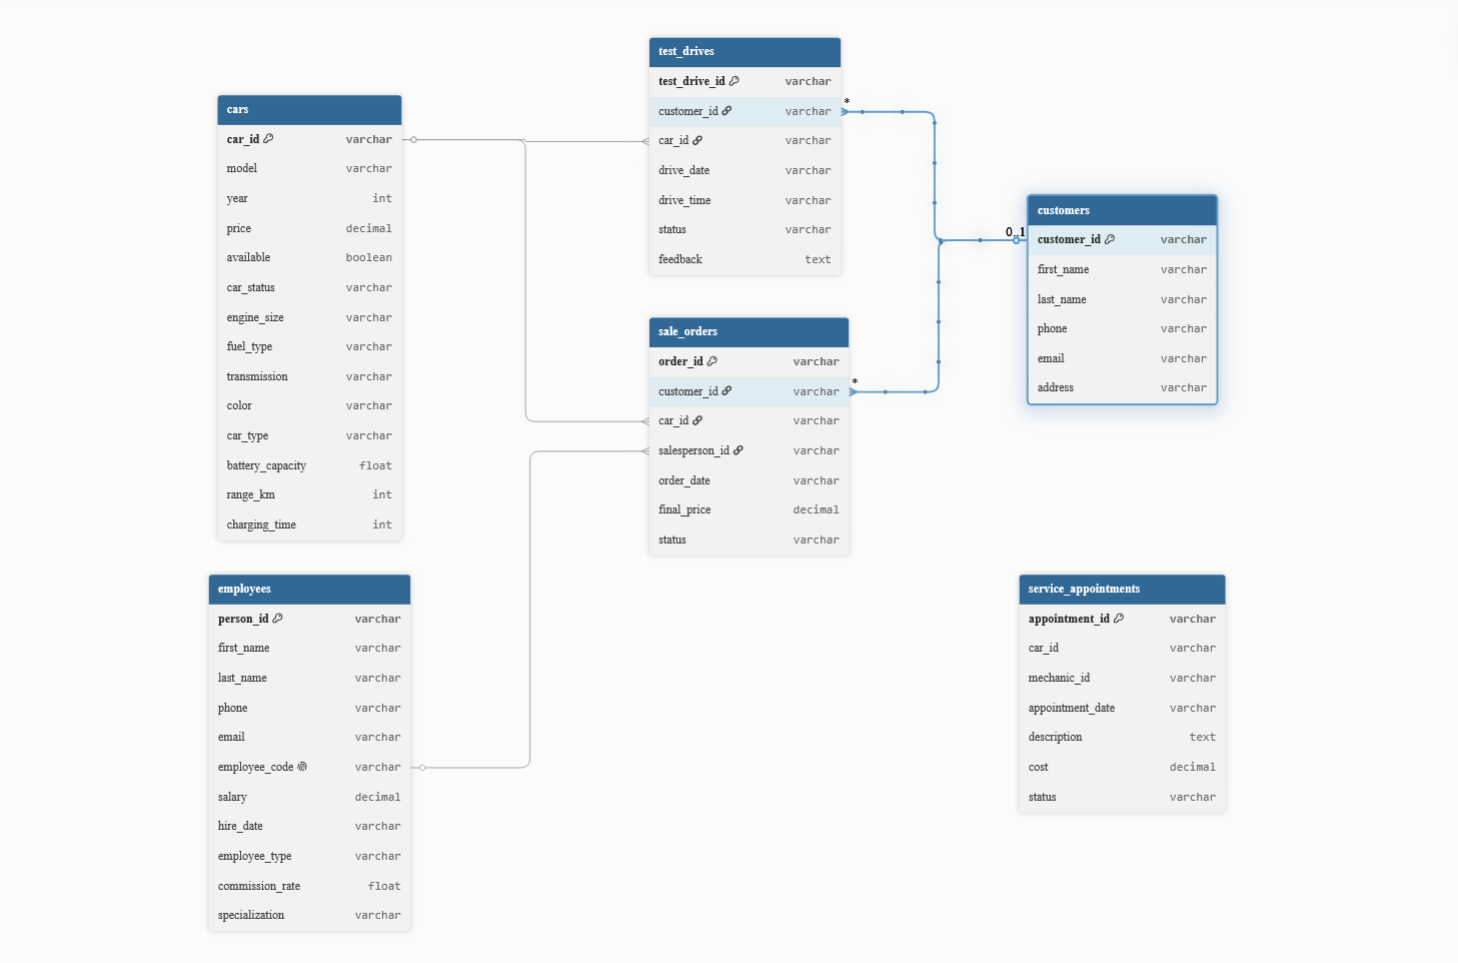
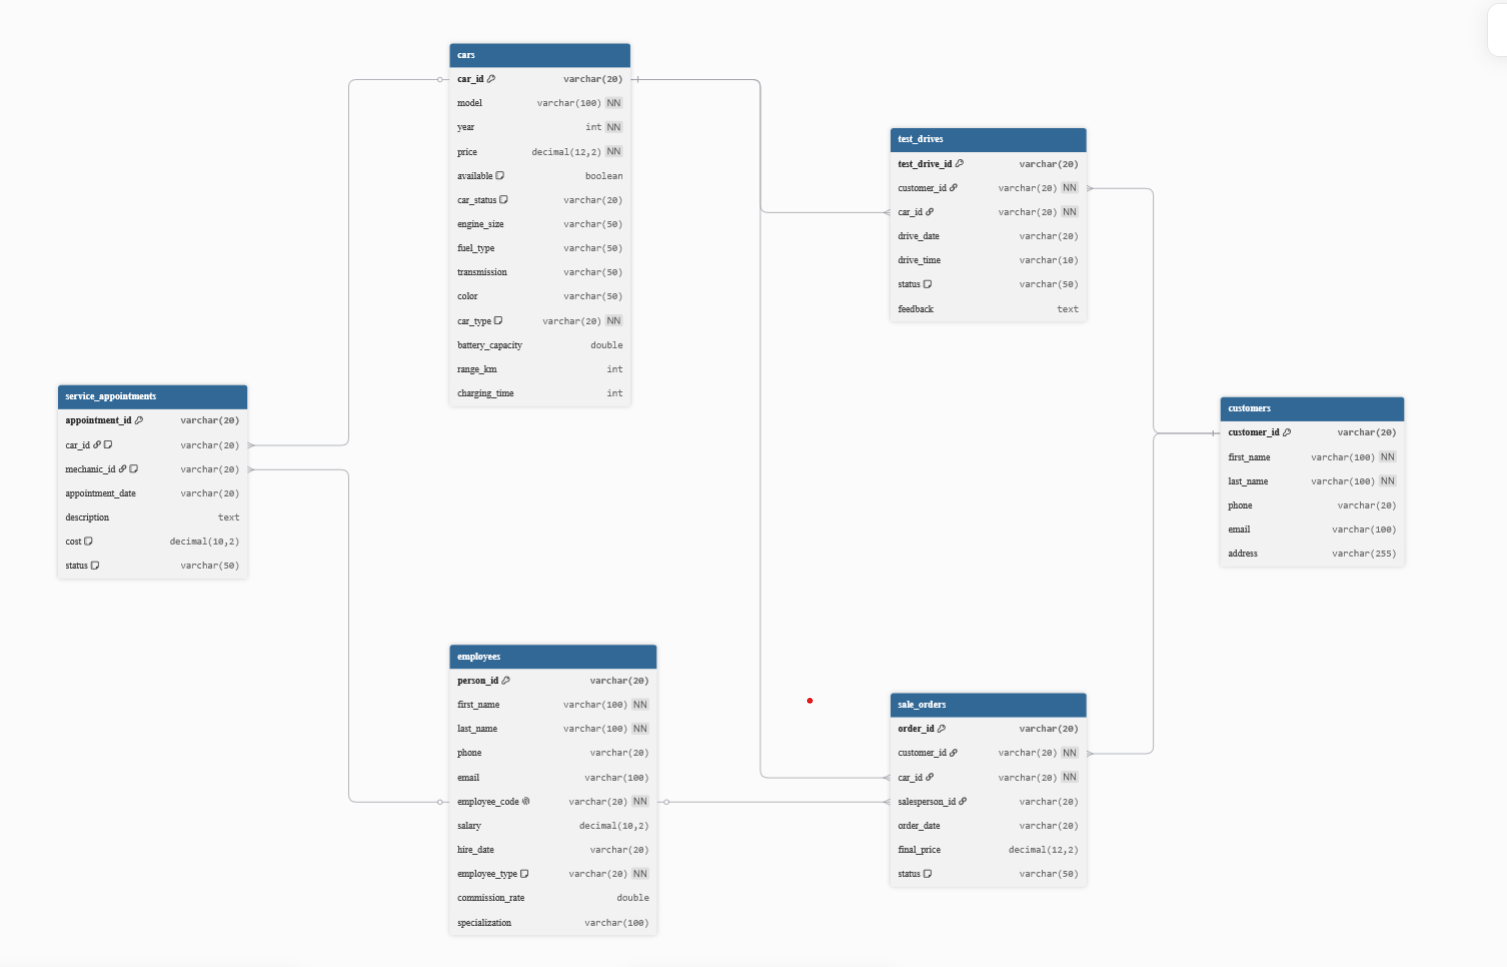
Schimbat FK la ServiceAppointments

diff --git a/src/main/java/ui/ServicePanel.java b/src/main/java/ui/ServicePanel.java
@@ -37,14 +37,28 @@ public class ServicePanel {
             protected void updateItem(ServiceAppointment sa, boolean empty) {
                 super.updateItem(sa, empty);
                 if (empty || sa == null) { setText(null); setGraphic(null); return; }
-                AudiCar car = service.getCarById(sa.getCarId());
-                String carName = car != null
-                        ? car.getModel() + " (" + sa.getCarId() + ")"
-                        : sa.getCarId();
+                String carName;
+                if (sa.getCarId() == null) {
+                    String desc = sa.getDescription() != null ? sa.getDescription() : "";
+                    int idx = desc.indexOf("Masina: ");
+                    if (idx >= 0) {
+                        String after = desc.substring(idx + 8);
+                        int pipe = after.indexOf(" | ");
+                        carName = pipe >= 0 ? after.substring(0, pipe) : after;
+                    } else {
+                        carName = "(cerere externa)";
+                    }
+                } else {
+                    AudiCar car = service.getCarById(sa.getCarId());
+                    carName = car != null
+                            ? car.getModel() + " (" + sa.getCarId() + ")"
+                            : sa.getCarId();
+                }
+                String mechanicDisplay = sa.getMechanicId() != null ? sa.getMechanicId() : "Neatribuit";
                 Label top = new Label(sa.getDate() + "   |   " + carName);
                 top.getStyleClass().add("cell-title");
                 Label bot = new Label("ID: " + sa.getAppointmentId()
-                        + "   |   Mecanic: " + sa.getMechanicId()
+                        + "   |   Mecanic: " + mechanicDisplay
                         + "   |   Status: " + sa.getStatus()
                         + (sa.getCost() > 0 ? "   |   Cost: " + String.format("%.0f RON", sa.getCost()) : ""));
                 bot.getStyleClass().add("cell-detail");

diff --git a/src/main/java/service/ServiceAppointmentDbService.java b/src/main/java/service/ServiceAppointmentDbService.java
@@ -30,7 +30,12 @@ public class ServiceAppointmentDbService implements GenericDAO<ServiceAppointmen
         String sql = "INSERT INTO service_appointments (appointment_id, car_id, mechanic_id, appointment_date, description, cost, status) VALUES (?, ?, ?, ?, ?, ?, ?)";
         try (PreparedStatement stmt = getConn().prepareStatement(sql)) {
             stmt.setString(1, appt.getAppointmentId());
-            stmt.setString(2, appt.getCarId());
+            String carId = appt.getCarId();
+            if (carId == null || carId.isEmpty()) {
+                stmt.setNull(2, Types.VARCHAR);
+            } else {
+                stmt.setString(2, carId);
+            }
             String mechId = appt.getMechanicId();
             if (mechId == null || mechId.isEmpty() || mechId.equals("N/A")) {
                 stmt.setNull(3, Types.VARCHAR);

diff --git a/src/main/java/model/ServiceAppointment.java b/src/main/java/model/ServiceAppointment.java
@@ -36,6 +36,9 @@ public class ServiceAppointment {
     @Override
     public String toString() {
         return String.format("[Service %s] Masina: %s | Mecanic: %s | Data: %s | Status: %s | Cost: %.0f RON",
-                appointmentId, carId, mechanicId, date, status, cost);
+                appointmentId,
+                carId != null ? carId : "(cerere externa)",
+                mechanicId != null ? mechanicId : "Neatribuit",
+                date, status, cost);
     }
 }

diff --git a/src/main/java/ui/CustomerPanel.java b/src/main/java/ui/CustomerPanel.java
@@ -294,7 +294,7 @@ public class CustomerPanel {
                 + " | Masina: " + tfSvcCar.getText().trim()
                 + (tfSvcDescription.getText().trim().isEmpty() ? "" : " | " + tfSvcDescription.getText().trim());
         ServiceAppointment appt = new ServiceAppointment(service.generateServiceAppointmentId(),
-                tfSvcCar.getText().trim(), "N/A", svcDatePicker.getValue().toString(), desc);
+                null, null, svcDatePicker.getValue().toString(), desc);
         service.addServiceAppointment(appt);
 
         showAlert(Alert.AlertType.INFORMATION, "Programare inregistrata",